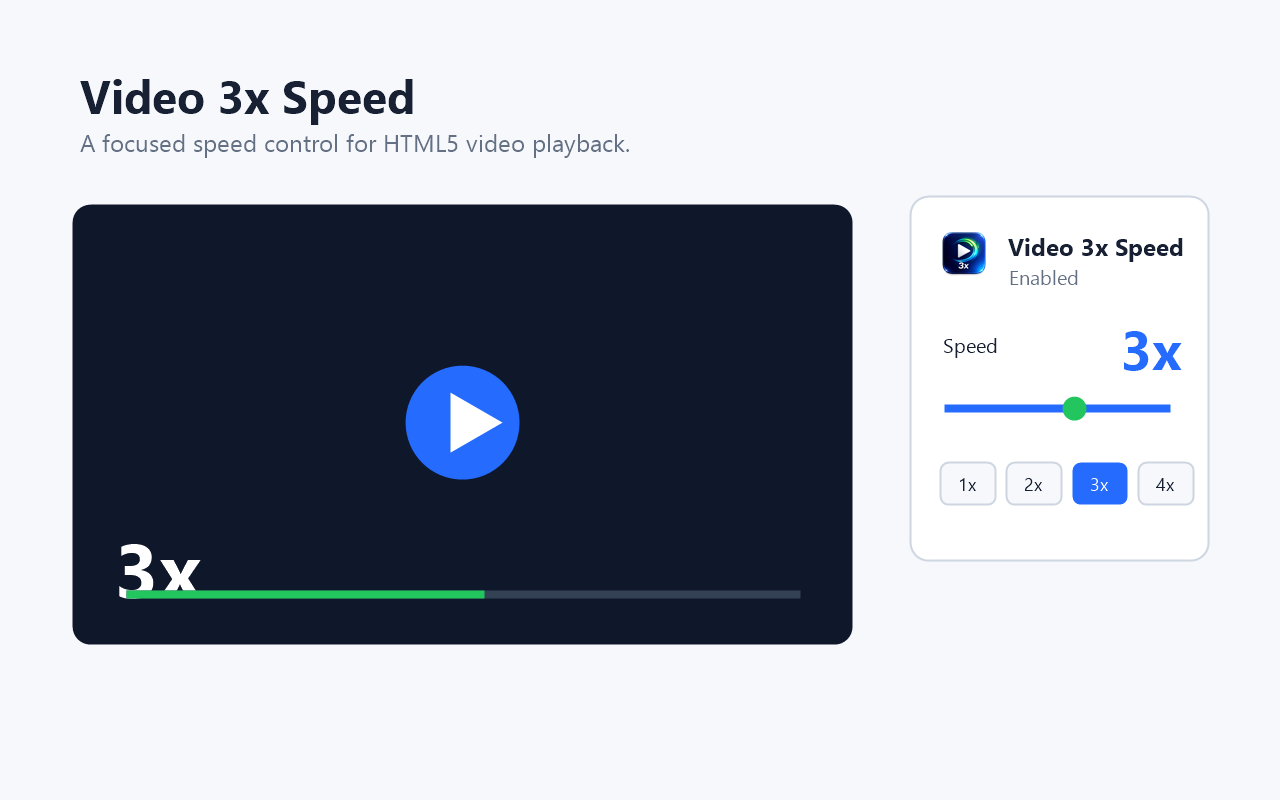
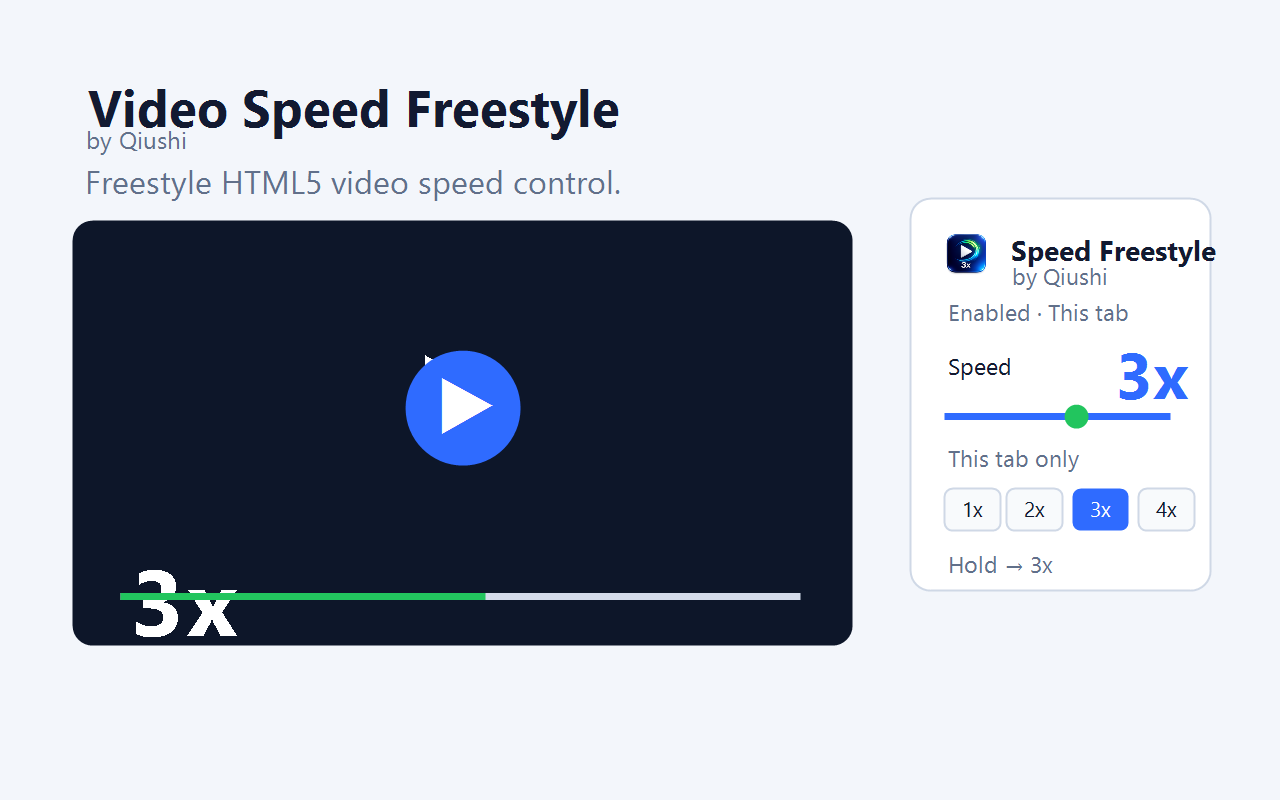
Rename extension to Video Speed Freestyle

diff --git a/popup.html b/popup.html
@@ -3,7 +3,7 @@
   <head>
     <meta charset="utf-8">
     <meta name="viewport" content="width=device-width, initial-scale=1">
-    <title>Video 3x Speed</title>
+    <title>Video Speed Freestyle by Qiushi</title>
     <link rel="stylesheet" href="popup.css">
   </head>
   <body>
@@ -11,7 +11,7 @@
       <header class="header">
         <img src="images/icon-48.png" width="32" height="32" alt="">
         <div>
-          <h1>Video 3x Speed</h1>
+          <h1>Video Speed Freestyle</h1>
           <p id="statusText">Enabled</p>
         </div>
         <label class="switch" title="Enable on this browser">

diff --git a/README.md b/README.md
@@ -1,15 +1,15 @@
 <p align="center">
-  <img src="images/icon-128.png" width="96" height="96" alt="Video 3x Speed icon">
+  <img src="images/icon-128.png" width="96" height="96" alt="Video Speed Freestyle by Qiushi icon">
 </p>
 
 <p align="center">
   <a href="README.md">English</a> · <a href="README.zh-CN.md">简体中文</a>
 </p>
 
-<h1 align="center">Video 3x Speed</h1>
+<h1 align="center">Video Speed Freestyle by Qiushi</h1>
 
 <p align="center">
-  A polished Manifest V3 Chrome extension for keeping HTML5 videos at your preferred high-speed playback rate.
+  A polished Manifest V3 Chrome extension for tuning HTML5 video speed your own way.
 </p>
 
 <p align="center">
@@ -19,12 +19,12 @@
 </p>
 
 <p align="center">
-  <img src="store-assets/usage-bilibili.png" width="920" alt="Video 3x Speed running on Bilibili">
+  <img src="store-assets/usage-bilibili.png" width="920" alt="Video Speed Freestyle by Qiushi running on Bilibili">
 </p>
 
 ## Overview
 
-Video 3x Speed gives every standard HTML5 video a focused speed control layer. It defaults to `3x`, keeps the chosen speed when pages try to reset playback rate, and includes a compact toolbar popup for quick adjustments.
+Video Speed Freestyle by Qiushi gives every standard HTML5 video a focused speed control layer. It defaults to `3x`, keeps the chosen speed when pages try to reset playback rate, and includes a compact toolbar popup for quick adjustments.
 
 The extension is intentionally small: no analytics, no remote code, no account system, and no background service doing extra work.
 
@@ -43,16 +43,16 @@ The extension is intentionally small: no analytics, no remote code, no account s
 ## Interface
 
 <p align="center">
-  <img src="store-assets/screenshot-1280x800.png" width="920" alt="Video 3x Speed product preview">
+  <img src="store-assets/screenshot-1280x800.png" width="920" alt="Video Speed Freestyle by Qiushi product preview">
 </p>
 
 <p align="center">
-  <img src="store-assets/small-promo-440x280.png" width="440" alt="Video 3x Speed promotional tile">
+  <img src="store-assets/small-promo-440x280.png" width="440" alt="Video Speed Freestyle by Qiushi promotional tile">
 </p>
 
 The popup is designed to stay quiet and task-focused: one switch, a regular speed control, a per-tab override, a hold-to-speed control, and four common presets.
 
-On sites where the built-in player exposes only limited speed choices, Video 3x Speed can still apply a higher HTML5 playback rate through its own toolbar control.
+On sites where the built-in player exposes only limited speed choices, Video Speed Freestyle by Qiushi can still apply a higher HTML5 playback rate through its own toolbar control.
 
 ## Icon Set
 
@@ -103,7 +103,7 @@ video-3x-speed/
 
 ## Privacy
 
-Video 3x Speed does not collect, transmit, sell, or share user data. It only stores:
+Video Speed Freestyle by Qiushi does not collect, transmit, sell, or share user data. It only stores:
 
 - whether the extension is enabled
 - the selected playback speeds

diff --git a/STORE_LISTING.md b/STORE_LISTING.md
@@ -2,15 +2,15 @@
 
 ## Name
 
-Video 3x Speed
+Video Speed Freestyle by Qiushi
 
 ## Summary
 
-Set HTML5 videos to high speed with a toolbar control, per-tab speed, and hold-to-speed shortcut.
+Freestyle HTML5 video speed with global, per-tab, and hold-to-speed controls.
 
 ## Description
 
-Video 3x Speed keeps HTML5 videos playing at your chosen speed. It defaults to 3x and includes a small toolbar popup for pausing the extension, choosing another playback rate, setting a current-tab-only speed, or setting the temporary speed used while holding the Right Arrow key.
+Video Speed Freestyle by Qiushi keeps HTML5 videos playing at your chosen speed. It defaults to 3x and includes a small toolbar popup for pausing the extension, choosing another playback rate, setting a current-tab-only speed, or setting the temporary speed used while holding the Right Arrow key.
 
 The extension works locally in your browser. It does not collect analytics, browsing history, page content, video content, or personal data.
 

diff --git a/PRIVACY.md b/PRIVACY.md
@@ -1,6 +1,6 @@
 # Privacy Policy
 
-Video 3x Speed does not collect, transmit, sell, or share user data.
+Video Speed Freestyle by Qiushi does not collect, transmit, sell, or share user data.
 
 The extension runs locally in the browser and changes the playback speed of HTML5 video elements on pages the user visits. It stores only three preferences through Chrome's storage API:
 